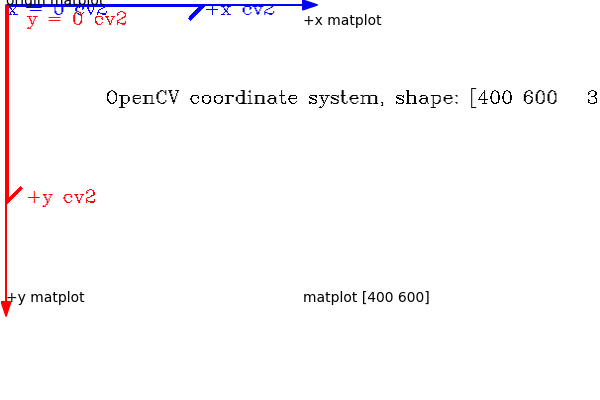
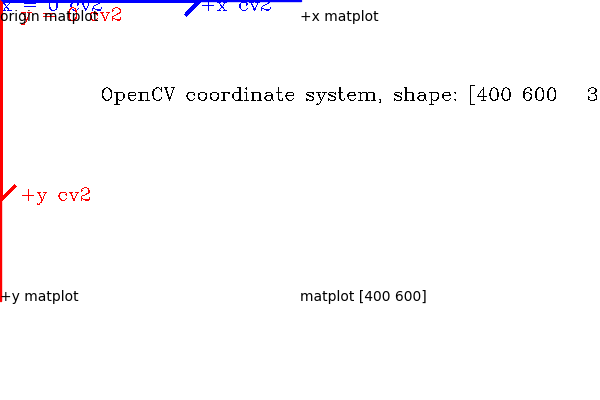
added imsave with cv2 and matplot overlaid

diff --git a/tmp3.py b/tmp3.py
@@ -13,7 +13,6 @@ def plotWindImg():
     grid_size = 200 # pixels
     wind_grid_shape = np.ceil(canvas_size/grid_size).astype(int)
 
-
     # matplotlib figsize is in inches, convert to px
     my_dpi = 100
     fig, ax = plt.subplots(figsize=(canvas_size[1]/my_dpi, 
@@ -21,22 +20,23 @@ def plotWindImg():
     img = plt.imread('2tmp' + wind_image_filename)
     ax.imshow(img)#, origin='upper')
 
-    plt.axis("off")
     #ax.set_aspect('equal')
-    plt.gca().set_axis_off()
-    plt.subplots_adjust(top = 1, bottom = 0, right = 1, left = 0,
-            hspace = 0, wspace = 0)
-    plt.margins(0,0)
 
     #plt.axis('equal')
-    plt.arrow(0,0, 300,0, color='blue', width=0.03, head_width=10)
-    plt.arrow(0,0, 0,300, color='red', width=0.03, head_width=10)
+    plt.arrow(0,0, 300,0, color='blue', width=0.03, head_width=0)
+    plt.arrow(0,0, 0,300, color='red', width=0.03, head_width=0)
 
-    plt.text(0,0,'origin matplot')
+    plt.text(0,20,'origin matplot')
     plt.text(300,20,'+x matplot', color='black')
     plt.text(0,300,'+y matplot')
 
     plt.text(300,300, f'matplot {canvas_size}')
+
+    #plt.gca().set_axis_off()
+    plt.axis("off")
+    plt.subplots_adjust(top = 1, bottom = 0, right = 1, left = 0,
+            hspace = 0, wspace = 0)
+    plt.margins(0,0)
 
     plt.savefig('tmp' + wind_image_filename, transparent=True, pad_inches=0)
 
